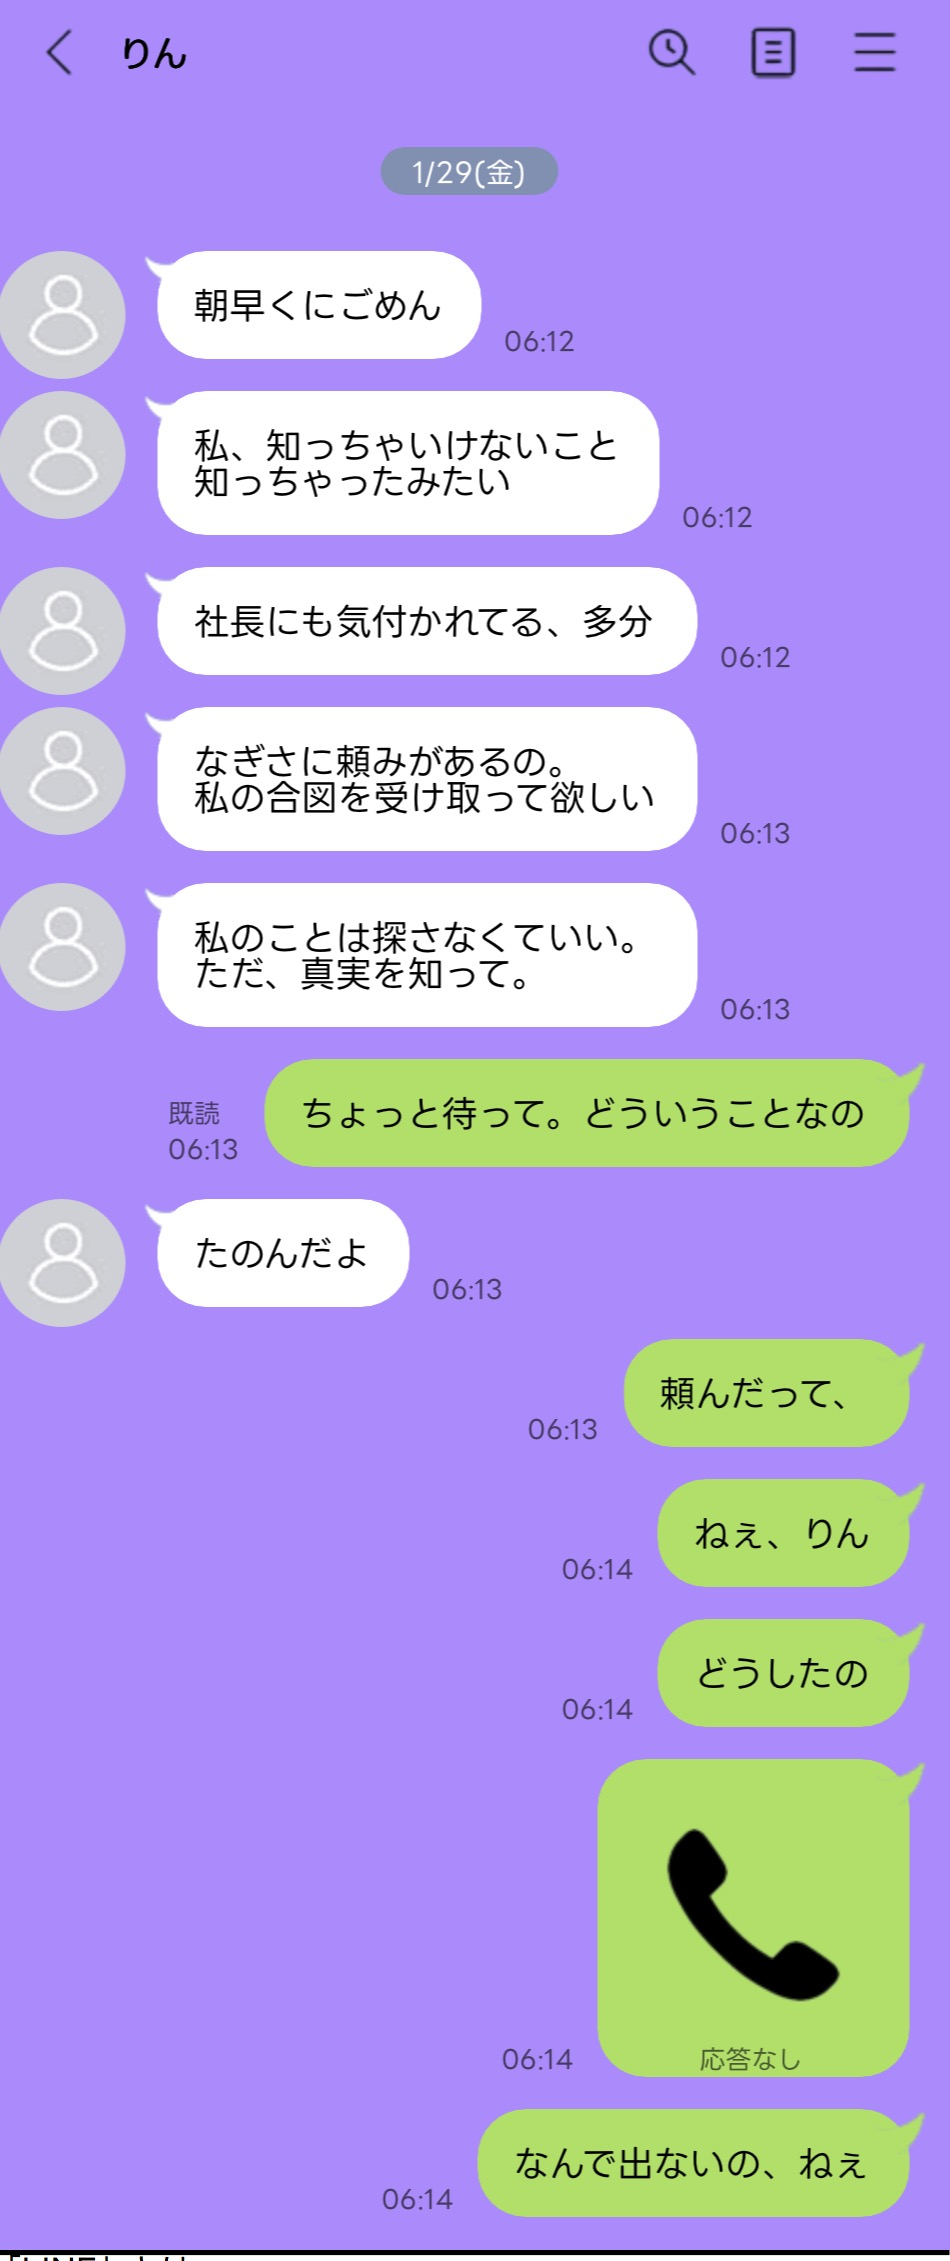
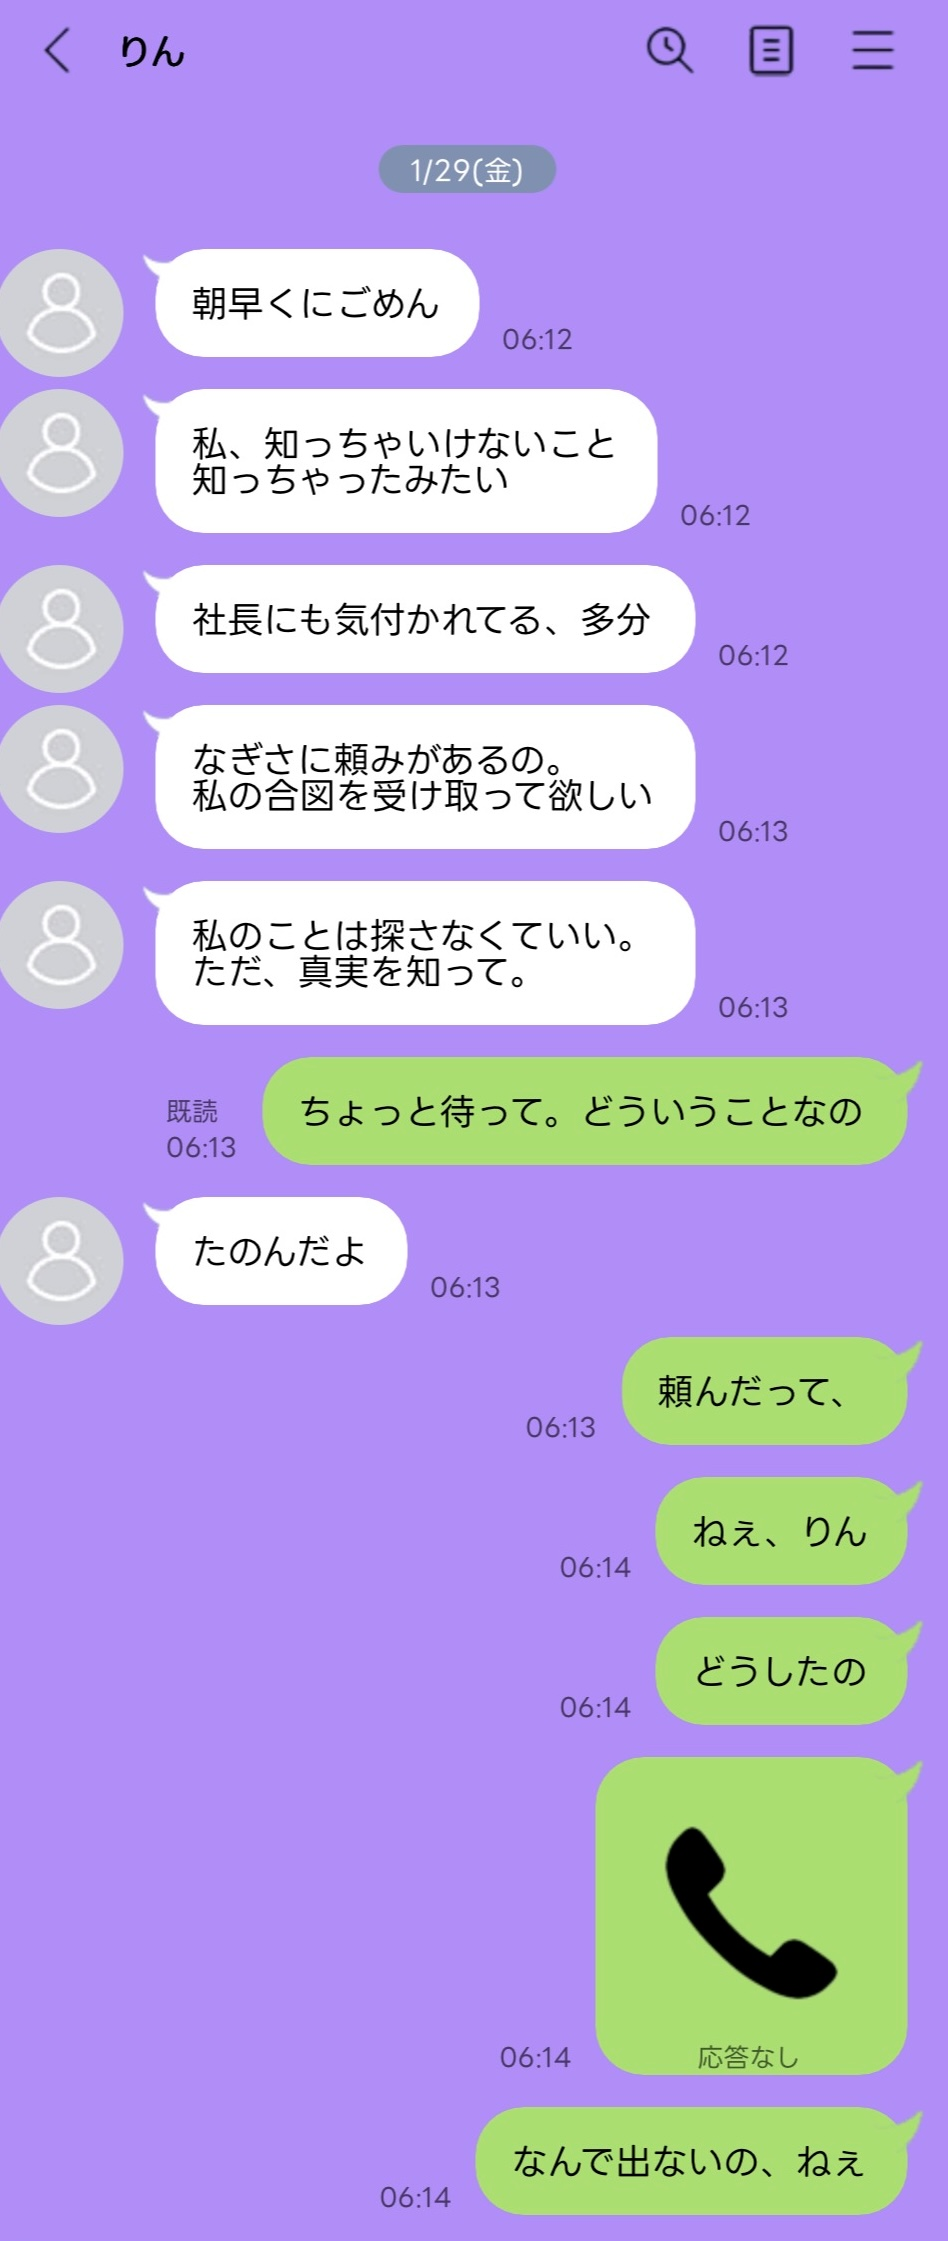
feat: NEWSをp2_NEWS資料の内容に更新し、追加素材を取得
- 「週刊ライク」掲載記事について(2025.05.17)を追加
- 暁月りん活動休止の日付を2027.01.25に修正
- アルバム「Re:alize」の収録曲を確定版に差し替え
- ツアー名を「-Our Dimension-」付きに修正
- カルテ画像7点・本人確認画像・グループロゴをDriveから取得

diff --git a/pages/news.html b/pages/news.html
@@ -135,6 +135,16 @@
                 <a href="news/agency_notice.html" class="news-link">詳細を見る →</a>
             </div>
 
+            <div class="news-item" data-detail="news/rin_hiatus.html" data-keyword="活動休止">
+                <div class="news-date">2027.01.25</div>
+                <h2 class="news-title">暁月りん 活動休止に関するお知らせ</h2>
+                <p class="news-excerpt">
+                    UnRe:al所属メンバー 暁月りんにつきまして、体調不良のため、当面の間、活動を休止させていただくこととなりました。
+                    復帰時期につきましては、現時点では未定となっております。
+                </p>
+                <a href="news/rin_hiatus.html" class="news-link">詳細を見る →</a>
+            </div>
+
             <div class="news-item" data-detail="news/renewal.html">
                 <div class="news-date">2026.08.17</div>
                 <h2 class="news-title">公式サイトリニューアルのお知らせ</h2>
@@ -165,14 +175,14 @@
                 <a href="news/live_tour.html" class="news-link">詳細を見る →</a>
             </div>
 
-            <div class="news-item" data-detail="news/rin_hiatus.html" data-keyword="活動休止">
-                <div class="news-date">2026.02.01</div>
-                <h2 class="news-title">暁月りん活動休止に関するお知らせ</h2>
+            <div class="news-item" data-detail="news/like_statement.html">
+                <div class="news-date">2025.05.17</div>
+                <h2 class="news-title">「週刊ライク」掲載記事について</h2>
                 <p class="news-excerpt">
-                    UnRe:al所属の暁月りんにつきまして、体調不良のため、当面の間、活動を休止させていただくこととなりました。
-                    復帰時期につきましては、現時点では未定となっております。
+                    2025年5月16日発売の「週刊ライク」に掲載された、弊社および代表取締役・黒澤宏一に関する記事について、
+                    一部事実と異なる内容が含まれております。
                 </p>
-                <a href="news/rin_hiatus.html" class="news-link">詳細を見る →</a>
+                <a href="news/like_statement.html" class="news-link">詳細を見る →</a>
             </div>
         </div>
 

diff --git a/pages/news/like_statement.html b/pages/news/like_statement.html
@@ -3,7 +3,7 @@
 <head>
     <meta charset="UTF-8">
     <meta name="viewport" content="width=device-width, initial-scale=1.0">
-    <title>暁月りん 活動休止に関するお知らせ - UnReal</title>
+    <title>「週刊ライク」掲載記事について - UnReal</title>
     <style>
         * {
             margin: 0;
@@ -75,19 +75,15 @@
 </head>
 <body>
     <div class="container">
-        <div class="article-date">2027.01.25</div>
-        <h1 class="article-title">暁月りん 活動休止に関するお知らせ</h1>
+        <div class="article-date">2025.05.17</div>
+        <h1 class="article-title">「週刊ライク」掲載記事について</h1>
 
         <div class="article-body">
-            <p>いつもUnRe:alを応援いただき、誠にありがとうございます。</p>
+            <p>2025年5月16日発売の「週刊ライク」に掲載された、弊社および代表取締役・黒澤宏一に関する記事について、一部事実と異なる内容が含まれております。</p>
 
-            <p>このたび、UnRe:al所属メンバー 暁月りんにつきまして、体調不良のため、当面の間、活動を休止させていただくこととなりました。</p>
+            <p>記事内で報じられた弊社に関する内容、ならびに黒澤宏一に関する記述は、いずれも事実無根であり、事実に基づいたものではございません。</p>
 
-            <p>復帰時期につきましては、現時点では未定となっております。今後の活動再開につきましては、決まり次第、改めてお知らせいたします。</p>
-
-            <p>ファンの皆様、関係者の皆様にはご心配とご迷惑をおかけいたしますが、何卒ご理解いただきますようお願い申し上げます。</p>
-
-            <p>今後とも暁月りん、ならびにUnRe:alへの変わらぬご支援を賜りますよう、よろしくお願い申し上げます。</p>
+            <p>ファンの皆様、関係者の皆様にはご心配をおかけいたしますが、今後とも変わらぬご支援を賜りますよう、お願い申し上げます。</p>
 
             <p class="article-sign">Easter Production</p>
         </div>

diff --git a/pages/news/album_realize.html b/pages/news/album_realize.html
@@ -140,8 +140,8 @@
             </div>
 
             <ol class="tracklist">
-                <li>タイトル未定<span class="track-artist">（新曲）</span></li>
                 <li>Signal</li>
+                <li>夜光<span class="track-artist">（新曲）</span></li>
                 <li>Sparkling Fiction</li>
                 <li>EVE<span class="track-artist">（暁月りん ソロ曲）</span></li>
                 <li>Sweetest Sugar<span class="track-artist">（百瀬ゆの ソロ曲）</span></li>
@@ -149,14 +149,14 @@
                 <li>Stargaze<span class="track-artist">（城崎みれい ソロ曲）</span></li>
                 <li>Blooming Love<span class="track-artist">（桧翠いろは ソロ曲）</span></li>
                 <li>My Cinderella<span class="track-artist">（星名らん ソロ曲）</span></li>
-                <li>Hide and Seek<span class="track-artist">（詩藤なぎさ ソロ曲）</span></li>
-                <li>タイトル未定<span class="track-artist">（新曲）</span></li>
-                <li>タイトル未定<span class="track-artist">（新曲）</span></li>
+                <li>Hide &amp; Seek<span class="track-artist">（詩藤なぎさ ソロ曲）</span></li>
+                <li>Made to be<span class="track-artist">（新曲）</span></li>
+                <li>ふゆどなり<span class="track-artist">（新曲）</span></li>
             </ol>
 
             <p>UnRe:alの「これまで」と「これから」を詰め込んだ、特別な一枚をお届けします。</p>
 
-            <p>収録曲や商品仕様、販売情報などの詳細は、決まり次第お知らせいたします。</p>
+            <p>商品仕様、販売情報など追加の詳細は、決まり次第お知らせいたします。</p>
 
             <p>どうぞ楽しみにお待ちください。</p>
 

diff --git a/pages/news/live_tour.html b/pages/news/live_tour.html
@@ -130,7 +130,7 @@
 
             <p>2027年2月21日（日）から3月2日（火）にかけて、大阪・福岡・東京の全3都市を巡ります。</p>
 
-            <div class="tour-name">UnRe:al LIVE TOUR 2027</div>
+            <div class="tour-name">UnRe:al LIVE TOUR 2026 -Our Dimension-</div>
 
             <div class="schedule">
                 <div class="schedule-city">
